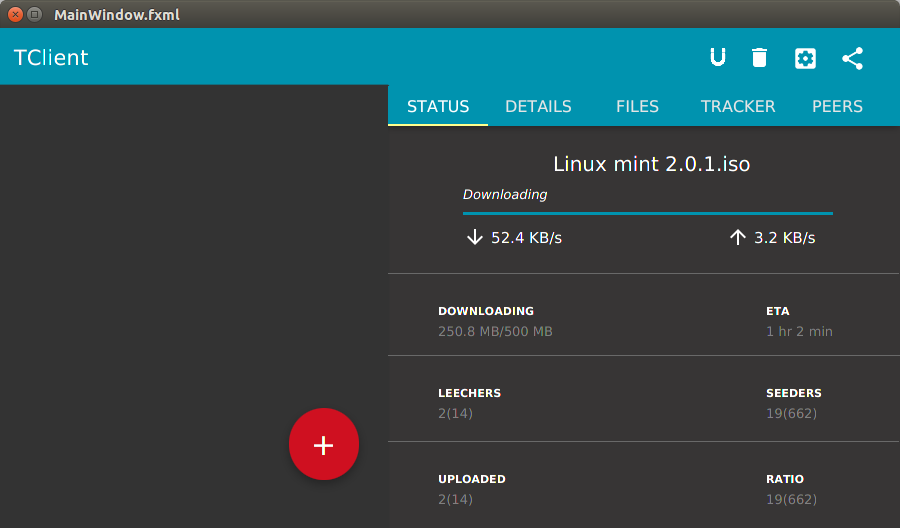
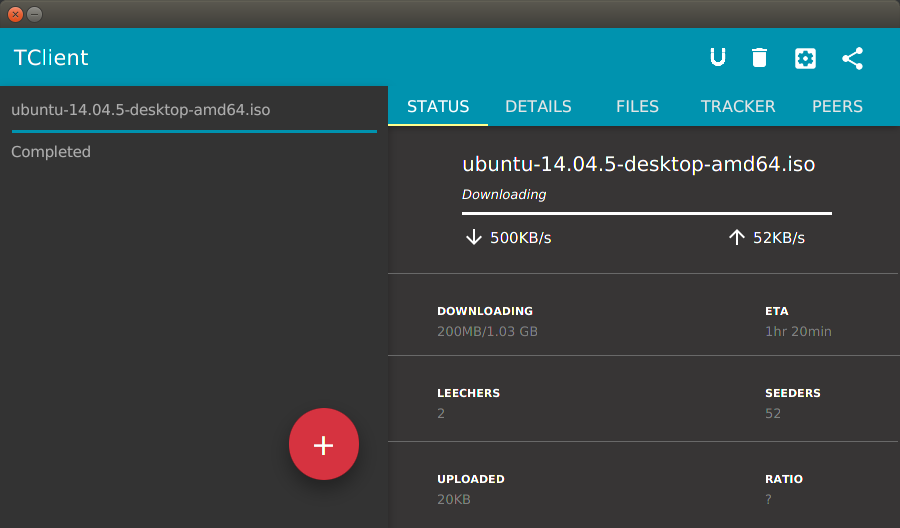
Fixed Null ptr in statustab controller

diff --git a/src/main/java/uicontroller/StatusTabController.java b/src/main/java/uicontroller/StatusTabController.java
@@ -24,32 +24,39 @@ public class StatusTabController {
     public Label leechers;
     public Label seeders;
     public Label uploaded;
+    @FXML
     public JFXProgressBar progress;
     public AnchorPane anchorpane;
+    FXMLLoader loader;
     public AnchorPane setupStatusTab(TorrentMeta meta){
-        FXMLLoader loader=new FXMLLoader(getClass().getResource("/statustab.fxml"));
+        if (loader==null) {
+            loader = new FXMLLoader(getClass().getResource("/statustab.fxml"));
+            loader.setController(this);
+        }
         try {
             loader.load();
-            loader.setController(this);
         } catch (IOException e) {
             e.printStackTrace();
         }
 
         String titletext=meta.isMultiFileMode()?meta.getFoldername():meta.getFilenames().get(0);
         System.out.println(titletext);
+        if (progress==null){
+            System.out.println("error");
+        }
         if (title==null){
             System.out.println("null");
         }
         title.setText(titletext);
         downloadinglabel.setText("Downloading");
-        String downloadString="0 B/"+ Utils.getConvertedBytes(meta.getTotalFilesize());
+        String downloadString="200MB/"+ Utils.getConvertedBytes(meta.getTotalFilesize());
         downloading.setText(downloadString);
-        downloadspeed.setText("0 KB/s");
-        uploadspeed.setText("0 KB/s");
-        uploaded.setText("0KB");
+        downloadspeed.setText("500KB/s");
+        uploadspeed.setText("52KB/s");
+        uploaded.setText("20KB");
         seeders.setText("52");
         leechers.setText("2");
-        eta.setText("? hr ? min");
+        eta.setText("1hr 20min");
         progress.setProgress(0.0d);
         return anchorpane;
     }
